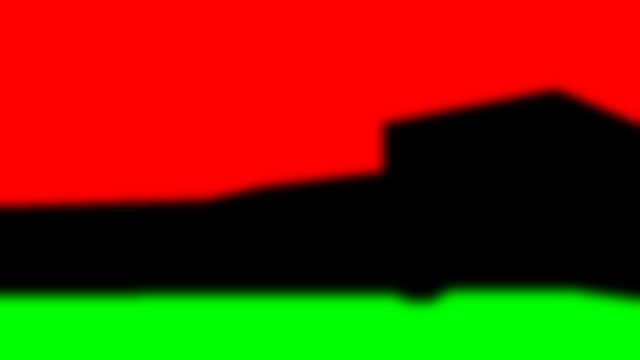
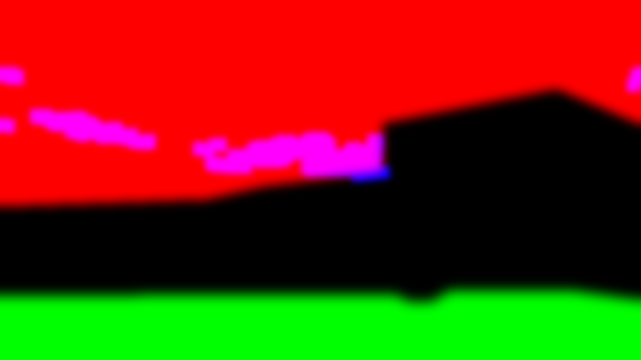
Hintergrund Wallbox: Befunde der Prüfung behoben
- Grafikkarte weg (WebGL-Kontext verloren): Szene wird sofort abgebaut,
  die Kopfzeile bekommt wieder ihre normalen Farben; kein Fehler-Rauschen
  beim Wiederherstellen. Standbild ohne WebGL reagiert wieder auf Drehen
  und Dunkelmodus und läuft ohne Dauerschleife.
- Heller Modus: Glaskarten deckender (Schrift darin wieder lesbar),
  KW und Live-Status auf dem Foto kräftiger.
- Helle Kopfzeile erst, wenn das Foto halb eingeblendet ist.
- Foto lädt nach einem Fehler später noch einmal; eine Tastatur, die nur
  die Höhe verkleinert, tauscht das Foto nicht mehr.
- Handy: Kalender offen = Bild steht still (die Karten verdecken es),
  spart Akku; niedrige Handyfenster zeigen die Wallbox unter der Karte.
- Sterne nicht mehr auf den Wolken, Wolken ziehen ohne Doppelkonturen,
  Leuchtring genau auf der Wallbox, kleinere Maske fürs Hochformat,
  nur noch ein Zeichendurchgang pro Größenänderung.

Claude-Session: https://claude.ai/code/session_01CLpcjEGFxvfaHePfseB734

diff --git a/bg-szene.js b/bg-szene.js
@@ -95,7 +95,8 @@
       L.push(`    if (sh > ${f(1 - (s.share || 0.035))}) { vec2 so = vec2(hash(sc + 3.7), hash(sc + 9.1)) * 0.6 + 0.2;`);
       L.push(`      float sd = length(fract(sp) - so); float tw = 0.55 + 0.45 * sin(uT * (0.7 + 1.6 * hash(sc + 1.3)) + sh * 40.0);`);
       L.push(`      float dark = 1.0 - smoothstep(0.12, 0.35, dot(col, vec3(0.299, 0.587, 0.114)));`);
-      L.push(`      col += vec3(0.9, 0.94, 1.0) * smoothstep(0.09, 0.0, sd) * tw * m.r * dark * ${f(s.amount || 0.7)}; } }`);
+      const free = s.cloudsInB ? " * (1.0 - m.b)" : "";   // Kanal B markiert die Wolken: dort keine Sterne
+      L.push(`      col += vec3(0.9, 0.94, 1.0) * smoothstep(0.09, 0.0, sd) * tw * m.r${free} * dark * ${f(s.amount || 0.7)}; } }`);
     }
     (c.leds || []).forEach((led) => {
       // LED: Glühen um die Stelle im Foto; "aus" dunkelt die LED leicht ab, "an" legt Licht darauf
@@ -206,11 +207,12 @@
       kind: "webgl",
       ready: () => !!(tImg && cur),
       setImages(v, img, mask) {
-        if (gl.isContextLost()) return;
-        let p; try { p = program(v); } catch (e) { return; }   // Variante lässt sich nicht bauen: alte bleibt stehen
+        if (gl.isContextLost()) return false;
+        let p; try { p = program(v); } catch (e) { return false; }   // Variante lässt sich nicht bauen: alte bleibt stehen
         if (tImg) gl.deleteTexture(tImg);
         if (tMask) gl.deleteTexture(tMask);
         tImg = texFrom(img, 0); tMask = mask ? texFrom(mask, 1) : null; cur = p;
+        return true;
       },
       size(bw, bh) { if (canvas.width !== bw || canvas.height !== bh) { canvas.width = bw; canvas.height = bh; } },
       draw(p) {
@@ -247,7 +249,7 @@
     return {
       kind: "2d",
       ready: () => !!img,
-      setImages(v, i) { img = i; key = ""; },
+      setImages(v, i) { img = i; key = ""; return true; },
       size(bw, bh) { if (canvas.width !== bw || canvas.height !== bh) { canvas.width = bw; canvas.height = bh; key = ""; } },
       draw(p) {
         if (!img) return;
@@ -267,14 +269,15 @@
   }
 
   function makeScene(cfg, { canvas2d, canvas3d }) {
-    const R = createGL(canvas3d, cfg.wide) || create2D(canvas2d);
+    // gleich das Programm der Variante bauen, die gezeigt wird; die andere entsteht erst beim Drehen
+    const R = createGL(canvas3d, cfg.tall && isPhoneLike(innerWidth, innerHeight) ? cfg.tall : cfg.wide) || create2D(canvas2d);
     if (!R) return null;
     const on = R.kind === "webgl" ? canvas3d : canvas2d, off = R.kind === "webgl" ? canvas2d : canvas3d;
     off.style.display = "none"; on.style.display = "";
     const reduce = matchMedia("(prefers-reduced-motion: reduce)").matches;
     on.style.opacity = "0";
     on.style.transition = reduce ? "none" : "opacity 900ms cubic-bezier(0.23, 1, 0.32, 1)";
-    let disposed = false, last = null, want = null, v = null, asp = 16 / 9, scale = 1;
+    let disposed = false, last = null, want = null, v = null, asp = 16 / 9, scale = 1, tries = 0, retryT = 0, toneT = 0;
     // Dunkles Foto (Abendszene): Kopfzeile und Werkzeugleiste stehen direkt darauf und werden hell (style.css,
     // data-bg-ton), der Schleier bleibt Navy und die Browserleiste färbt sich passend. Erst wenn das Foto da ist.
     const night = cfg.tone === "dunkel", root = document.documentElement;
@@ -287,24 +290,34 @@
     // Beim Drucken fehlt das Foto (style.css), die Kopfzeile braucht dann wieder ihre normalen Farben
     const beforePrint = () => tone(false), afterPrint = () => { if (!disposed && v) tone(true); };
     addEventListener("beforeprint", beforePrint); addEventListener("afterprint", afterPrint);
-    // Hochformat-Foto, wenn es eins gibt und der Bildschirm hoch ist (Handy); sonst das Querformat
-    const variantFor = (w, h) => (cfg.tall && isPhoneLike(w, h) ? cfg.tall : cfg.wide);
+    // Hochformat-Foto, wenn es eins gibt und der Bildschirm hoch ist (Handy); sonst das Querformat. Zwischen den
+    // Schwellen bleibt das aktuelle Foto, damit eine Tastatur, die nur die Höhe verkleinert, nicht das Foto tauscht.
+    const variantFor = (w, h) => {
+      if (!cfg.tall) return cfg.wide;
+      const r = w / h, now = want || v;
+      return now === cfg.tall ? (r < 1 ? cfg.tall : cfg.wide) : (isPhoneLike(w, h) ? cfg.tall : cfg.wide);
+    };
     function pick(w, h) {
       const nv = variantFor(w, h);
-      if (nv === want) return; want = nv;
+      if (nv === want) return; want = nv; clearTimeout(retryT);
       Promise.all([loadImage(nv.img), nv.mask ? loadImage(nv.mask) : Promise.resolve(null)]).then(([im, mk]) => {
-        if (disposed || want !== nv) return;
-        R.setImages(nv, im, mk);
-        v = nv; asp = im.naturalWidth / im.naturalHeight;
+        if (disposed || want !== nv || !R.setImages(nv, im, mk)) return;
+        tries = 0; v = nv; asp = im.naturalWidth / im.naturalHeight;
         if (last) draw(last);
-        tone(true);
-        requestAnimationFrame(() => { on.style.opacity = "1"; });
-      }).catch(() => { /* ohne Foto bleibt der Farbverlauf der Seite stehen */ });
+        // Helle Kopfzeile erst, wenn das Foto halb eingeblendet ist; vorher stünde helle Schrift auf hellem Verlauf
+        requestAnimationFrame(() => { on.style.opacity = "1"; clearTimeout(toneT); toneT = setTimeout(() => { if (!disposed) tone(true); }, reduce ? 0 : 120); });
+      }).catch(() => {
+        // Ohne Foto bleibt der Farbverlauf der Seite stehen. Später noch einmal versuchen, etwa nach einem Funkloch.
+        if (disposed || want !== nv) return;
+        want = null;
+        if (tries < 3) retryT = setTimeout(() => { if (!disposed && last) pick(last.w, last.h); }, [8000, 30000, 120000][tries++]);
+      });
     }
     function layout(st) {
       const w = Math.max(1, st.w), h = Math.max(1, st.h), dpr = Math.min(window.devicePixelRatio || 1, 3);
-      const ph = isPhoneLike(w, h);
-      const crop = cropFor(w, h, asp, (ph && v.focusPhone) || v.focus || [0.5, 0.5], ph ? v.zoomPhone : v.zoom);
+      const ph = cfg.tall ? v === cfg.tall : isPhoneLike(w, h);
+      const sh = ph && v.short && h < v.short.below ? v.short : null;   // niedriges Handyfenster, etwa Safari mit Leisten
+      const crop = cropFor(w, h, asp, (sh && sh.focus) || (ph && v.focusPhone) || v.focus || [0.5, 0.5], sh ? sh.zoom : ph ? v.zoomPhone : v.zoom);
       // Nicht feiner zeichnen, als das Foto Pixel hat (höchstens 1,6 Megapixel): spart auf Handys viel Rechenzeit und Akku
       const srcPx = (v.px || 1680 * 944) * crop[2] * crop[3];
       scale = clamp(Math.sqrt(Math.min(1.6e6, Math.max(srcPx * 1.2, w * h * 0.5)) / (w * h)), 0.4, dpr);
@@ -318,12 +331,12 @@
         veil: navy ? VEIL.dark : VEIL.light, veilA: navy ? 0.62 : 0.7, veilH: (phone ? 150 : 96) * scale });
     }
     return {
-      fps: cfg.fps || 24,
+      fps: R.kind === "webgl" ? (cfg.fps || 24) : 0,   // 0: Standbild ohne WebGL, der Rahmen zeichnet nur bei Änderungen
       stillT: cfg.stillT || 7,
-      resize(st) { last = st; pick(st.w, st.h); draw(st); },
+      resize(st) { last = st; pick(st.w, st.h); },   // gezeichnet wird danach mit dem richtigen Zeitpunkt (frame)
       frame(st) { last = st; draw(st); },
       dispose() {
-        disposed = true; R.dispose(); tone(false);
+        disposed = true; clearTimeout(retryT); clearTimeout(toneT); R.dispose(); tone(false);
         removeEventListener("beforeprint", beforePrint); removeEventListener("afterprint", afterPrint);
         on.style.opacity = ""; on.style.transition = "";
       },
@@ -352,24 +365,25 @@
     wide: {
       img: B + "wallbox-abend.webp", mask: B + "wallbox-abend-maske.png", px: 1600 * 899,
       focus: [0.613, 0.667, 0.72, 0.6],   // Wallbox rechts neben der Anmeldekarte
-      sky: { dir: [1, 0], amount: 0.03, period: 90 },
-      stars: { amount: 0.8, share: 0.03, density: 110 },
+      sky: { dir: [1, 0], amount: 0.012, period: 40 },
+      stars: { amount: 0.8, share: 0.03, density: 110, cloudsInB: true },
       ripple: { freq: 160, speed: 1.1, amount: 0.0016 },
       leds: [
-        { p: [0.6128, 0.6674], r: 0.009, color: WB_GREEN, mode: "pulse", period: 4, amount: 0.55, dim: 0.25 },
-        { p: [0.6128, 0.6674], r: 0.035, color: WB_GREEN, mode: "pulse", period: 4, amount: 0.08, dim: 0 },
+        { p: [0.6128, 0.6735], r: 0.009, color: WB_GREEN, mode: "pulse", period: 4, amount: 0.55, dim: 0.25 },
+        { p: [0.6128, 0.6735], r: 0.035, color: WB_GREEN, mode: "pulse", period: 4, amount: 0.08, dim: 0 },
       ],
     },
     tall: {
       // px: echte Bildschärfe des Hochformats (449 × 799, doppelt hochgerechnet); feiner zu zeichnen kostet nur Akku
       img: B + "wallbox-abend-hoch.webp", mask: B + "wallbox-abend-hoch-maske.png", px: 449 * 799 * 2,
       focus: [0.6, 0.754, 0.5, 0.8], zoomPhone: 1.08,   // Wallbox knapp unter der Anmeldekarte
-      sky: { dir: [1, 0], amount: 0.03, period: 90 },
-      stars: { amount: 0.8, share: 0.03, density: 110 },
+      short: { below: 760, focus: [0.6, 0.754, 0.5, 0.87], zoom: 1.2 },   // niedrige Handyfenster: Wallbox tiefer
+      sky: { dir: [1, 0], amount: 0.012, period: 40 },
+      stars: { amount: 0.8, share: 0.03, density: 110, cloudsInB: true },
       ripple: { freq: 160, speed: 1.1, amount: 0.0016 },
       leds: [
-        { p: [0.6027, 0.754], r: 0.0055, color: WB_GREEN, mode: "pulse", period: 4, amount: 0.55, dim: 0.25 },
-        { p: [0.6027, 0.754], r: 0.02, color: WB_GREEN, mode: "pulse", period: 4, amount: 0.08, dim: 0 },
+        { p: [0.602, 0.7566], r: 0.0055, color: WB_GREEN, mode: "pulse", period: 4, amount: 0.55, dim: 0.25 },
+        { p: [0.602, 0.7566], r: 0.02, color: WB_GREEN, mode: "pulse", period: 4, amount: 0.08, dim: 0 },
       ],
     },
   });

diff --git a/bg.js b/bg.js
@@ -66,23 +66,36 @@
     if (now - last < 1000 / Math.min(30, scene.fps || 30) - 4) return;
     last = now; draw(false);
   }
+  // Kalender offen auf dem Handy: die Karten verdecken das Bild fast ganz, dann steht es still und spart Akku
+  const covered = () => !document.body.classList.contains("locked") && innerWidth < 700;
+  let coveredNow = false;
   function start() {
     cancelAnimationFrame(raf); clearInterval(tick);
+    coveredNow = covered();
     if (!scene || document.hidden || lost) return;
     // Standbild bei „Bewegung reduzieren“, der Sonnenstand wird trotzdem jede Minute nachgeführt
     if (reduce.matches) { draw(true); tick = setInterval(() => draw(true), 60000); return; }
+    // Szene ohne Bewegung (Foto ohne WebGL) oder verdeckt: einmal zeichnen, und zwar den aktuellen Moment
+    if (!scene.fps || coveredNow) { draw(false); return; }
     raf = requestAnimationFrame(loop);
   }
   const redraw = () => draw(reduce.matches);
   function resize() { if (!scene || lost) return; try { scene.resize(state(0, true)); } catch (e) { fail(e); return; } redraw(); } // sofort zeichnen, sonst blitzt eine leere Fläche auf
 
-  c3.addEventListener("webglcontextlost", (e) => { e.preventDefault(); lost = true; cancelAnimationFrame(raf); clearInterval(tick); });
-  c3.addEventListener("webglcontextrestored", () => setTimeout(() => {
+  c3.addEventListener("webglcontextlost", (e) => {
+    if (c3.style.display === "none") return;   // die Szene zeichnet gerade ohne WebGL (Standbild), das betrifft sie nicht
+    e.preventDefault(); lost = true; cancelAnimationFrame(raf); clearInterval(tick);
+    // Szene gleich abbauen: das Bild ist weg, ihre Einstellungen (etwa helle Kopfzeile) dürfen nicht stehen bleiben
     try { scene && scene.dispose && scene.dispose(); } catch {}
+    scene = null;
+  });
+  c3.addEventListener("webglcontextrestored", () => setTimeout(() => {
+    if (!lost) return;
     make(); lost = !scene;
     if (scene) { resize(); start(); }
   }, 0));
-  addEventListener("resize", resize);
+  addEventListener("resize", () => { resize(); if (covered() !== coveredNow) start(); });
+  new MutationObserver(() => { if (covered() !== coveredNow) start(); }).observe(document.body, { attributes: true, attributeFilter: ["class"] });
   document.addEventListener("visibilitychange", start);
   reduce.addEventListener("change", start);
   darkQ.addEventListener("change", redraw);

diff --git a/style.css b/style.css
@@ -415,6 +415,11 @@ body.locked .app { display: none; }
 /* Dunkles Hintergrundfoto (Abendszene): Kopfzeile und Werkzeugleiste stehen direkt auf dem Foto und tragen deshalb
    auch im hellen Modus die Farben des Dunkelmodus (Block oben); die Glasflächen darunter bleiben hell */
 :root[data-bg-ton="dunkel"] :is(.top, .toolbar, .banner) { color: var(--fg); color-scheme: dark; }
+/* Kleine Angaben direkt auf dem Foto (KW, Live-Status) eine Stufe kräftiger, sonst reicht der Kontrast über hellem Himmel nicht */
+:root[data-bg-ton="dunkel"] :is(.top .status, .period .kw) { color: var(--fg-2); }
+/* Im hellen Modus liegen die Glaskarten jetzt über einem dunklen Foto: deckender, damit die Schrift darin lesbar bleibt */
+@media (prefers-color-scheme: light) { :root[data-bg-ton="dunkel"]:not([data-theme="dark"]) { --surface: rgba(255,255,255,.9); } }
+:root[data-bg-ton="dunkel"][data-theme="light"] { --surface: rgba(255,255,255,.9); }
 
 /* Hintergrund-Ebenen */
 #bgfx, #bg3d { position: fixed; inset: 0; width: 100%; height: 100%; z-index: -1; pointer-events: none; }
